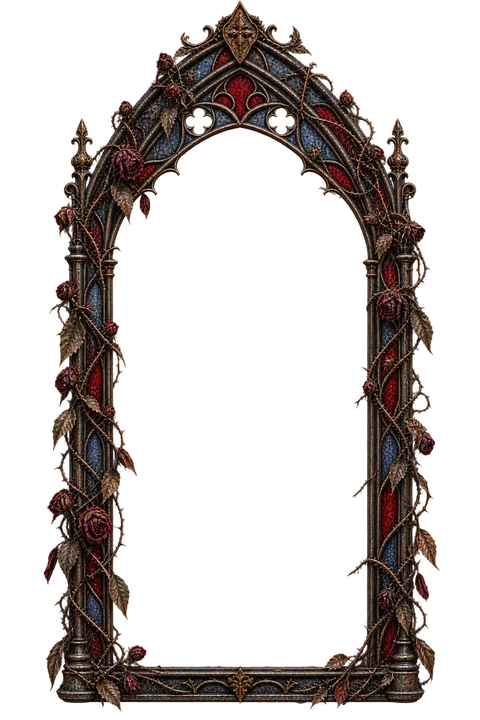
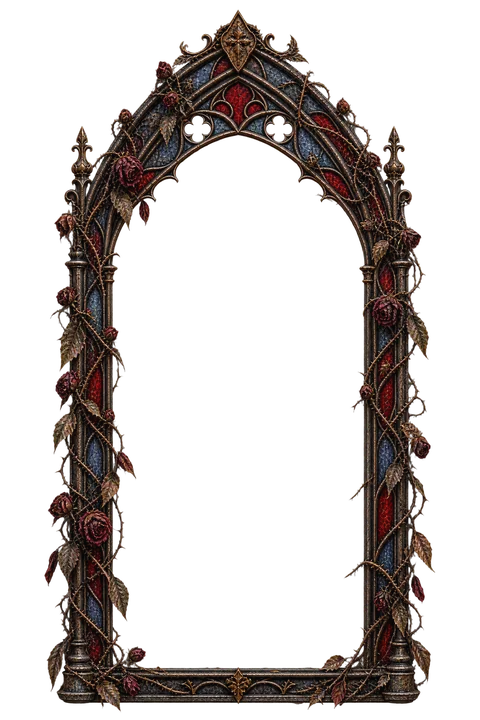
Normalize stained-glass frames so they are proportional side by side
The source PNGs placed each window differently on the canvas, and the thin
viva frame was drawn ~17% narrower. processar_moldura.py now crops each
window to its outline and rescales all to the same height and baseline,
and --alargar-vao widens only the glass between the columns and the
central ornament (used at 1.3 for viva-fina). Regenerated all six frames,
masks and boxes.

Claude-Session: https://claude.ai/code/session_01CFeCMaSta1SsrPDAjLVaTr

Changed region(s): [[0.0938, 0.0, 0.9375, 1.0]]

diff --git a/project-backend/vitral.jsx b/project-backend/vitral.jsx
@@ -109,12 +109,12 @@ const VT_ASSETS = 'assets/vitral/';
 //   o retrato é enquadrado nele e a máscara recorta o contorno exato.
 // `quebrada`: a moldura já é um vitral estilhaçado (dispensa o efeito extra de morto).
 const VT_FRAMES = [
-  { id: 'viva-fina',            label: 'Viva · fina',                file: 'janela-viva-fina',            box: [27.3, 16.9, 27.3, 7.8] },
-  { id: 'misterio-finas',       label: 'Mistério · rosas finas',     file: 'janela-misterio-finas',       box: [22.7, 17.2, 22.7, 6.7] },
-  { id: 'misterio-murchas',     label: 'Mistério · rosas murchas',   file: 'janela-misterio-murchas',     box: [22.7, 17.4, 22.7, 6.8] },
-  { id: 'quebrada-estilhacada', label: 'Quebrada · estilhaçada',     file: 'janela-quebrada-estilhacada', box: [22.9, 19.2, 20.6, 6.9], quebrada: true },
-  { id: 'quebrada-musgo',       label: 'Quebrada · musgo e heras',   file: 'janela-quebrada-musgo',       box: [23.3, 19.0, 20.4, 7.2], quebrada: true },
-  { id: 'quebrada-morta',       label: 'Quebrada · vegetação morta', file: 'janela-quebrada-morta',       box: [23.3, 19.0, 20.6, 7.1], quebrada: true },
+  { id: 'viva-fina',            label: 'Viva · fina',                file: 'janela-viva-fina',            box: [23.1, 18.1, 23.1, 6.1] },
+  { id: 'misterio-finas',       label: 'Mistério · rosas finas',     file: 'janela-misterio-finas',       box: [22.7, 18.2, 22.9, 6.1] },
+  { id: 'misterio-murchas',     label: 'Mistério · rosas murchas',   file: 'janela-misterio-murchas',     box: [22.7, 18.3, 23.3, 6.7] },
+  { id: 'quebrada-estilhacada', label: 'Quebrada · estilhaçada',     file: 'janela-quebrada-estilhacada', box: [22.3, 20.0, 22.3, 7.2], quebrada: true },
+  { id: 'quebrada-musgo',       label: 'Quebrada · musgo e heras',   file: 'janela-quebrada-musgo',       box: [22.9, 20.0, 22.1, 8.1], quebrada: true },
+  { id: 'quebrada-morta',       label: 'Quebrada · vegetação morta', file: 'janela-quebrada-morta',       box: [23.5, 19.9, 21.9, 7.9], quebrada: true },
 ];
 const VT_FRAME_BY_ID = Object.fromEntries(VT_FRAMES.map(f => [f.id, f]));
 // Molduras antigas (grossas, removidas) → equivalente fina, para escolhas já salvas.

diff --git a/project-backend/assets/vitral/processar_moldura.py b/project-backend/assets/vitral/processar_moldura.py
@@ -6,12 +6,17 @@ Saída (nesta pasta):
   <nome>-sm.webp   480px de largura (cards da galeria, miniaturas)
   <nome>-vao.png   máscara do vão (alfa = onde o retrato aparece)
 
+Antes, a janela é normalizada: recortada pelo contorno e colocada na mesma
+altura e na mesma base de todas as outras, para que fiquem proporcionais lado a
+lado. Se o desenho vier mais estreito que os demais, --alargar-vao estica só o
+vidro entre as colunas e o ornamento central.
+
 A máscara é o preenchimento da área transparente a partir do centro, depois de
 "fechar" as frestas da moldura; por isso funciona com bordas irregulares
 (vitrais quebrados). Use --fechar maior se o vão escapar por buracos da moldura.
 
 Uso:
-  python3 processar_moldura.py origem.png janela-nome [--fechar 7]
+  python3 processar_moldura.py origem.png janela-nome [--fechar 7] [--alargar-vao 1.3]
 Depois, registre a moldura em VT_FRAMES (vitral.jsx).
 """
 import argparse
@@ -20,6 +25,45 @@ import os
 from PIL import Image, ImageDraw, ImageFilter
 
 MW, MH = 480, 720
+W, H = 1536, 2304
+TARGET_H = 2250   # altura da janela normalizada (sem o brilho)
+BOTTOM = 2280     # base de todas as janelas na mesma linha
+
+
+def frame_bbox(im):
+    """Contorno da janela (ignora o brilho suave em volta)."""
+    return im.getchannel('A').point(lambda v: 255 if v > 90 else 0).getbbox()
+
+
+def widen(im, factor, center_keep=0.14, zone=(0.30, 0.70)):
+    """Alarga o vão esticando só as faixas entre as colunas e o ornamento central,
+    sem deformar colunas, rosas das laterais nem o fecho do arco."""
+    w, h = im.size
+    c0, c1 = int(w * (.5 - center_keep / 2)), int(w * (.5 + center_keep / 2))
+    a0, a1 = int(w * zone[0]), int(w * zone[1])
+    stretch = ((c0 - a0) + (a1 - c1) + (a1 - a0) * (factor - 1)) / ((c0 - a0) + (a1 - c1))
+    pieces = [(0, a0, False), (a0, c0, True), (c0, c1, False), (c1, a1, True), (a1, w, False)]
+    out = Image.new('RGBA', (int(round(w + (a1 - a0) * (factor - 1))) + 2, h), (0, 0, 0, 0))
+    x = 0
+    for x0, x1, s in pieces:
+        p = im.crop((x0, 0, x1, h))
+        if s:
+            p = p.resize((int(round((x1 - x0) * stretch)), h), Image.LANCZOS)
+        out.paste(p, (x, 0))
+        x += p.size[0]
+    return out.crop((0, 0, x, h))
+
+
+def normalize(im, widen_factor=None):
+    """Recorta a janela, põe todas na mesma altura e na mesma base, centralizada."""
+    fr = im.crop(frame_bbox(im))
+    if widen_factor and widen_factor != 1:
+        fr = widen(fr, widen_factor)
+    s = TARGET_H / fr.size[1]
+    fr = fr.resize((int(fr.size[0] * s), TARGET_H), Image.LANCZOS)
+    out = Image.new('RGBA', (W, H), (0, 0, 0, 0))
+    out.paste(fr, ((W - fr.size[0]) // 2, BOTTOM - TARGET_H), fr)
+    return out
 
 
 def hole_mask(im, close):
@@ -46,9 +90,15 @@ def main():
     ap.add_argument('origem')
     ap.add_argument('nome')
     ap.add_argument('--fechar', type=int, default=7, help='px (na escala 480x720) para fechar frestas')
+    ap.add_argument('--alargar-vao', type=float, default=1.0,
+                    help='alarga o vão (ex.: 1.3) para molduras desenhadas mais estreitas que as outras')
+    ap.add_argument('--sem-normalizar', action='store_true',
+                    help='usa a imagem como veio, sem igualar altura e base às outras molduras')
     args = ap.parse_args()
     out = os.path.dirname(os.path.abspath(__file__))
     im = Image.open(args.origem).convert('RGBA')
+    if not args.sem_normalizar:
+        im = normalize(im, args.alargar_vao)
     for w, suf in ((960, ''), (480, '-sm')):
         im.resize((w, w * 3 // 2), Image.LANCZOS).save(os.path.join(out, args.nome + suf + '.webp'),
                                                        'WEBP', quality=84, method=6)
